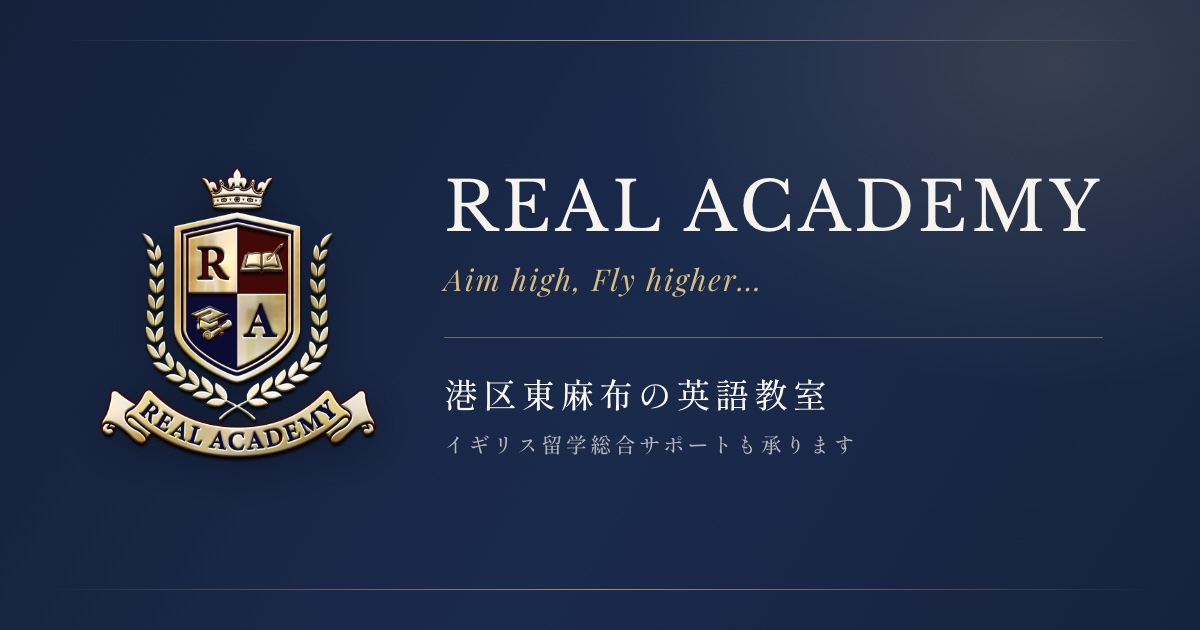
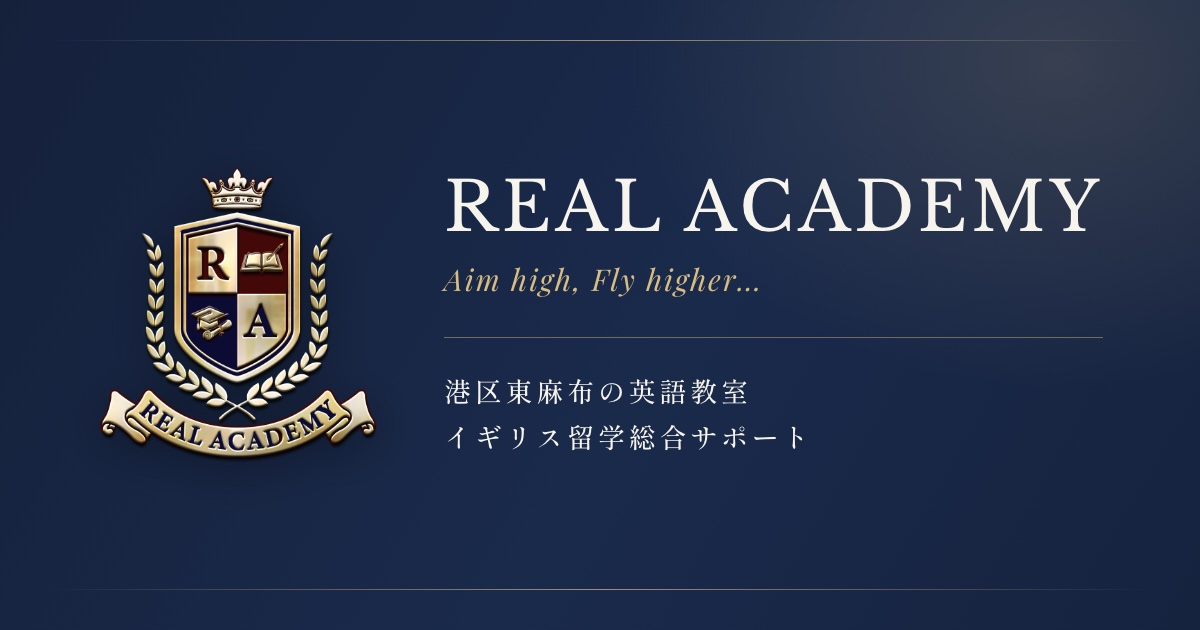
トップの共有画像を初案に戻す

Changed region(s): [[0.37, 0.6032, 0.7092, 0.7238]]

diff --git a/docs/event-oxford-lse-2025.html b/docs/event-oxford-lse-2025.html
@@ -14,7 +14,7 @@
 <meta property="og:title" content="特別対談：オックスフォード大学 & LSE 在籍生登壇｜イベント｜REAL ACADEMY">
 <meta property="og:description" content="特別対談：オックスフォード大学 & LSE 在籍生登壇（2025年12月20日（土）・REAL ACADEMY／STEAM English Academy 麻布校）のご案内。">
 <meta property="og:url" content="https://noaruft.github.io/realacademy/event-oxford-lse-2025.html">
-<meta property="og:image" content="https://noaruft.github.io/realacademy/assets/og-image.jpg?v=f6638045">
+<meta property="og:image" content="https://noaruft.github.io/realacademy/assets/og-image.jpg?v=48389d9e">
 <meta name="twitter:card" content="summary_large_image">
 <link rel="preconnect" href="https://fonts.googleapis.com">
 <link rel="preconnect" href="https://fonts.gstatic.com" crossorigin>

diff --git a/docs/index.html b/docs/index.html
@@ -14,7 +14,7 @@
 <meta property="og:title" content="REAL ACADEMY｜港区東麻布の英語教室・イギリス留学サポート">
 <meta property="og:description" content="麻布十番駅6番出口すぐ。STEAM English Academy、Scholars'、ボーディングスクール受験対策、イギリス留学総合サポートのREAL ACADEMY。">
 <meta property="og:url" content="https://noaruft.github.io/realacademy/">
-<meta property="og:image" content="https://noaruft.github.io/realacademy/assets/og-image.jpg?v=f6638045">
+<meta property="og:image" content="https://noaruft.github.io/realacademy/assets/og-image.jpg?v=48389d9e">
 <meta name="twitter:card" content="summary_large_image">
 <link rel="preconnect" href="https://fonts.googleapis.com">
 <link rel="preconnect" href="https://fonts.gstatic.com" crossorigin>

diff --git a/docs/news-uk-summer-2025.html b/docs/news-uk-summer-2025.html
@@ -14,7 +14,7 @@
 <meta property="og:title" content="イギリスサマースクール2025のご案内｜お知らせ｜REAL ACADEMY">
 <meta property="og:description" content="イギリスの名門ボーディングスクールで開催するサマースクール2025（6〜18歳、1週間単位）のご案内。">
 <meta property="og:url" content="https://noaruft.github.io/realacademy/news-uk-summer-2025.html">
-<meta property="og:image" content="https://noaruft.github.io/realacademy/assets/og-image.jpg?v=f6638045">
+<meta property="og:image" content="https://noaruft.github.io/realacademy/assets/og-image.jpg?v=48389d9e">
 <meta name="twitter:card" content="summary_large_image">
 <link rel="preconnect" href="https://fonts.googleapis.com">
 <link rel="preconnect" href="https://fonts.gstatic.com" crossorigin>

diff --git a/docs/news-toefl-2025.html b/docs/news-toefl-2025.html
@@ -14,7 +14,7 @@
 <meta property="og:title" content="第3回TOEFLテストのご案内｜お知らせ｜REAL ACADEMY">
 <meta property="og:description" content="STEAM English Academy 麻布校で実施するTOEFLテスト（第3回・第4回）のご案内。当校生徒以外でも受験可能です。">
 <meta property="og:url" content="https://noaruft.github.io/realacademy/news-toefl-2025.html">
-<meta property="og:image" content="https://noaruft.github.io/realacademy/assets/og-image.jpg?v=f6638045">
+<meta property="og:image" content="https://noaruft.github.io/realacademy/assets/og-image.jpg?v=48389d9e">
 <meta name="twitter:card" content="summary_large_image">
 <link rel="preconnect" href="https://fonts.googleapis.com">
 <link rel="preconnect" href="https://fonts.gstatic.com" crossorigin>

diff --git a/docs/event-winter-2023.html b/docs/event-winter-2023.html
@@ -14,7 +14,7 @@
 <meta property="og:title" content="A MERRY HOHOHO! WINTER PROGRAM 2023 🎄｜イベント｜REAL ACADEMY">
 <meta property="og:description" content="A MERRY HOHOHO! WINTER PROGRAM 2023 🎄（2023年12月25日（月）〜27日（水）・STEAM English Academy）のご案内。">
 <meta property="og:url" content="https://noaruft.github.io/realacademy/event-winter-2023.html">
-<meta property="og:image" content="https://noaruft.github.io/realacademy/assets/og-image.jpg?v=f6638045">
+<meta property="og:image" content="https://noaruft.github.io/realacademy/assets/og-image.jpg?v=48389d9e">
 <meta name="twitter:card" content="summary_large_image">
 <link rel="preconnect" href="https://fonts.googleapis.com">
 <link rel="preconnect" href="https://fonts.gstatic.com" crossorigin>

diff --git a/docs/event-halloween-2022.html b/docs/event-halloween-2022.html
@@ -14,7 +14,7 @@
 <meta property="og:title" content="STEAM GHOST ADVENTURE 2022 🧙♀｜イベント｜REAL ACADEMY">
 <meta property="og:description" content="STEAM GHOST ADVENTURE 2022 🧙♀（2022年10月29日（土）・STEAM English Academy）のご案内。">
 <meta property="og:url" content="https://noaruft.github.io/realacademy/event-halloween-2022.html">
-<meta property="og:image" content="https://noaruft.github.io/realacademy/assets/og-image.jpg?v=f6638045">
+<meta property="og:image" content="https://noaruft.github.io/realacademy/assets/og-image.jpg?v=48389d9e">
 <meta name="twitter:card" content="summary_large_image">
 <link rel="preconnect" href="https://fonts.googleapis.com">
 <link rel="preconnect" href="https://fonts.gstatic.com" crossorigin>

diff --git a/docs/event-halloween-2024.html b/docs/event-halloween-2024.html
@@ -14,7 +14,7 @@
 <meta property="og:title" content="HALLOWEEN NIGHT AT THE CIRCUS 2024 🎪｜イベント｜REAL ACADEMY">
 <meta property="og:description" content="HALLOWEEN NIGHT AT THE CIRCUS 2024 🎪（2024年10月26日（土）・STEAM English Academy）のご案内。">
 <meta property="og:url" content="https://noaruft.github.io/realacademy/event-halloween-2024.html">
-<meta property="og:image" content="https://noaruft.github.io/realacademy/assets/og-image.jpg?v=f6638045">
+<meta property="og:image" content="https://noaruft.github.io/realacademy/assets/og-image.jpg?v=48389d9e">
 <meta name="twitter:card" content="summary_large_image">
 <link rel="preconnect" href="https://fonts.googleapis.com">
 <link rel="preconnect" href="https://fonts.gstatic.com" crossorigin>

diff --git a/docs/news-renewal-2025.html b/docs/news-renewal-2025.html
@@ -14,7 +14,7 @@
 <meta property="og:title" content="ホームページ リニューアル｜お知らせ｜REAL ACADEMY">
 <meta property="og:description" content="STEAM English Academy麻布校、開校3周年を機にホームページをリニューアルいたしました。">
 <meta property="og:url" content="https://noaruft.github.io/realacademy/news-renewal-2025.html">
-<meta property="og:image" content="https://noaruft.github.io/realacademy/assets/og-image.jpg?v=f6638045">
+<meta property="og:image" content="https://noaruft.github.io/realacademy/assets/og-image.jpg?v=48389d9e">
 <meta name="twitter:card" content="summary_large_image">
 <link rel="preconnect" href="https://fonts.googleapis.com">
 <link rel="preconnect" href="https://fonts.gstatic.com" crossorigin>

diff --git a/docs/event-winter-2022.html b/docs/event-winter-2022.html
@@ -14,7 +14,7 @@
 <meta property="og:title" content="STEAM WINTER PROGRAM 2022 🎄｜イベント｜REAL ACADEMY">
 <meta property="og:description" content="STEAM WINTER PROGRAM 2022 🎄（2022年12月23日（金）〜27日（火）・STEAM English Academy）のご案内。">
 <meta property="og:url" content="https://noaruft.github.io/realacademy/event-winter-2022.html">
-<meta property="og:image" content="https://noaruft.github.io/realacademy/assets/og-image.jpg?v=f6638045">
+<meta property="og:image" content="https://noaruft.github.io/realacademy/assets/og-image.jpg?v=48389d9e">
 <meta name="twitter:card" content="summary_large_image">
 <link rel="preconnect" href="https://fonts.googleapis.com">
 <link rel="preconnect" href="https://fonts.gstatic.com" crossorigin>

diff --git a/docs/event-halloween-2023.html b/docs/event-halloween-2023.html
@@ -14,7 +14,7 @@
 <meta property="og:title" content="HALLOWEEN SPOOKY TEA PARTY 2023 👻｜イベント｜REAL ACADEMY">
 <meta property="og:description" content="HALLOWEEN SPOOKY TEA PARTY 2023 👻（2023年10月28日（土）・STEAM English Academy）のご案内。">
 <meta property="og:url" content="https://noaruft.github.io/realacademy/event-halloween-2023.html">
-<meta property="og:image" content="https://noaruft.github.io/realacademy/assets/og-image.jpg?v=f6638045">
+<meta property="og:image" content="https://noaruft.github.io/realacademy/assets/og-image.jpg?v=48389d9e">
 <meta name="twitter:card" content="summary_large_image">
 <link rel="preconnect" href="https://fonts.googleapis.com">
 <link rel="preconnect" href="https://fonts.gstatic.com" crossorigin>

diff --git a/docs/event-summer-2024.html b/docs/event-summer-2024.html
@@ -14,7 +14,7 @@
 <meta property="og:title" content="SUMMER PROGRAM 2024 ⚡｜イベント｜REAL ACADEMY">
 <meta property="og:description" content="SUMMER PROGRAM 2024 ⚡（2024年7月29日（月）〜8月9日（金）・STEAM English Academy）のご案内。">
 <meta property="og:url" content="https://noaruft.github.io/realacademy/event-summer-2024.html">
-<meta property="og:image" content="https://noaruft.github.io/realacademy/assets/og-image.jpg?v=f6638045">
+<meta property="og:image" content="https://noaruft.github.io/realacademy/assets/og-image.jpg?v=48389d9e">
 <meta name="twitter:card" content="summary_large_image">
 <link rel="preconnect" href="https://fonts.googleapis.com">
 <link rel="preconnect" href="https://fonts.gstatic.com" crossorigin>

diff --git a/docs/event-winter-2024.html b/docs/event-winter-2024.html
@@ -14,7 +14,7 @@
 <meta property="og:title" content="WINTER PROGRAM 2024 ❄｜イベント｜REAL ACADEMY">
 <meta property="og:description" content="WINTER PROGRAM 2024 ❄（2024年12月25日（水）〜27日（金）・STEAM English Academy）のご案内。">
 <meta property="og:url" content="https://noaruft.github.io/realacademy/event-winter-2024.html">
-<meta property="og:image" content="https://noaruft.github.io/realacademy/assets/og-image.jpg?v=f6638045">
+<meta property="og:image" content="https://noaruft.github.io/realacademy/assets/og-image.jpg?v=48389d9e">
 <meta name="twitter:card" content="summary_large_image">
 <link rel="preconnect" href="https://fonts.googleapis.com">
 <link rel="preconnect" href="https://fonts.gstatic.com" crossorigin>
